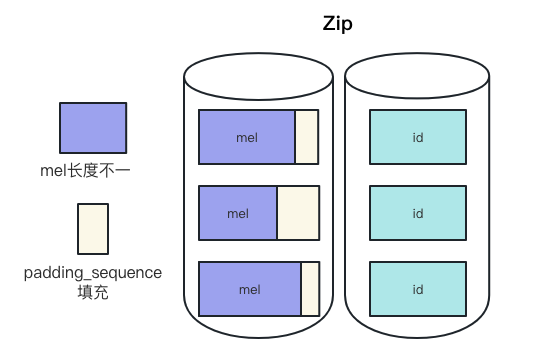
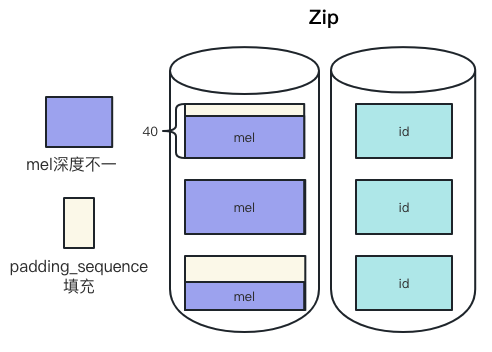
docs: self-attention source

diff --git a/_posts/编程篇/模型/2023-06-01-self-attention模型源码实现.md b/_posts/编程篇/模型/2023-06-01-self-attention模型源码实现.md
@@ -1,0 +1,204 @@
+---
+layout: post
+title: "self-attention模型源码实现"
+date: 2023-06-01
+author: Cola Liu
+categories: [编程篇,模型]
+---
+
+
+在`self-attention`模型源码中，直接调用Pytorch封装好的`TransformerEncoderLayer`函数是很简单的。不过模型里面还有诸如`Linear`、`permute`、`transpose`、`mean`、`sigmoid`、`argmax`等操作，我们也需要知道它们到底发挥了什么作用。
+
+> 本文主要介绍`self-attention`模型源码中，输入的tensor发生的变化，以及介绍`Linear`、`permute`、`transpose`、`mean`、`sigmoid`、`argmax`等处理tensor变换的操作。
+
+## model
+话不多说直接上源码 ⬇
+
+```python
+import torch
+import torch.nn as nn
+import torch.nn.functional as F
+
+
+class Classifier(nn.Module):
+ def __init__(self, d_model=80, n_spks=600, dropout=0.1):
+  super().__init__()
+  # Project the dimension of features from that of input into d_model.
+  self.prenet = nn.Linear(40, d_model)
+  # TODO:
+  #   Change Transformer to Conformer.
+  #   https://arxiv.org/abs/2005.08100
+  self.encoder_layer = nn.TransformerEncoderLayer(
+   d_model=d_model, dim_feedforward=256, nhead=2
+  )
+  # self.encoder = nn.TransformerEncoder(self.encoder_layer, num_layers=2)
+
+  # Project the the dimension of features from d_model into speaker nums.
+  self.pred_layer = nn.Sequential(
+   nn.Linear(d_model, d_model),
+   nn.Sigmoid(),
+   nn.Linear(d_model, n_spks),
+  )
+
+ def forward(self, mels):
+  """
+  args:
+   mels: (batch size, length, 40)
+  return:
+   out: (batch size, n_spks)
+  """
+  # out: (batch size, length, d_model)
+  out = self.prenet(mels)
+  # out: (length, batch size, d_model)
+  out = out.permute(1, 0, 2)
+  # The encoder layer expect features in the shape of (length, batch size, d_model).
+  out = self.encoder_layer(out)
+  # out: (batch size, length, d_model)
+  out = out.transpose(0, 1)
+  # mean pooling
+  stats = out.mean(dim=1)
+
+  # out: (batch, n_spks)
+  out = self.pred_layer(stats)
+  return out
+```
+源码看似很简单，但是每一步`tensor`发生了什么变化，我们很难看出来。在这里我们用一张图来展示上面的`model`。
+（点击看大图 ⬇）
+
+<img src="/assets/imgs/ai/self-attention/model.png" />
+
+## 输入矩阵
+
+首先，经过我们前面对于数据的预处理。假设我们输入的`batch_size=32`，即每个batch中有32条数据。每条数据格式为`[128,40]`，则我们的输入矩阵`shape`为：`torch.Size([32,128,40])`。
+
+<img src="/assets/imgs/ai/self-attention/input.png" />
+
+
+## prenet
+在本模型中，第一步操作是`prenet`，`prenet`中是一个全联接操作`(nn.Linear)`。输入维度为40，输出维度为80。
+```python
+# 定义
+self.prenet = nn.Linear(40, d_model) # 已知 de_model=80
+# forward
+out = self.prenet(mels)
+```
+
+<img src="/assets/imgs/ai/self-attention/prenet.png" />
+
+由上图可以看出，经过`prenet`操作后，tensor由 `torch.Size([32,128,40])` 转换成 `torch.Size([32,128,80])`。
+
+## permute
+接着是`permute`函数操作。`permute`函数在本blog另一篇文章里面有详细介绍，这里不再赘述。
+```python
+# forward
+ out = out.permute(1, 0, 2) # 把维度0和维度1掉换
+```
+<img src="/assets/imgs/ai/self-attention/permute.png" />
+
+`permute(1, 0, 2)`的作用是把维度0和维度1掉换，那么这里维度0是`batch_size`=32，维度1是` length`=128。
+
+tensor形状由 `torch.Size([32,128,80])` 转换成 `torch.Size([128,32,80])`。
+
+## encoder_layer
+接下来是`encoder_layer`，也就是self-attention的核心代码。
+```python
+# 定义
+self.encoder_layer = nn.TransformerEncoderLayer(
+   d_model=d_model, dim_feedforward=256, nhead=2
+  ) # d_model=80
+
+# forward
+# out: (batch size, length, d_model)
+out = self.prenet(mels)
+# out: (length, batch size, d_model)
+out = out.permute(1, 0, 2)
+# The encoder layer expect features in the shape of (length, batch size, d_model).
+out = self.encoder_layer(out)
+# out: (batch size, length, d_model)
+```
+<img src="/assets/imgs/ai/self-attention/encoder_layer.png" />
+
+在这个环节中，tensor的形状没有发生变化。
+
+## transpose
+接下来是`tranpose`函数操作。同样，`transpose`函数在本blog另一篇文章里面有详细介绍，这里不再赘述。
+
+```python
+# out: (batch size, length, d_model)
+out = out.transpose(0, 1)
+```
+
+<img src="/assets/imgs/ai/self-attention/transpose.png" />
+
+
+从上图可以看出来，`tranpose(0, 1)`把维度0和维度1掉换。tensor形状由 `torch.Size([128,32,80])` 转换成 `torch.Size([32,128,80])`。恢复到`permute`之前的shape。
+
+## mean
+`mean`函数是对某个维度求均值，这里`dim=1`。
+
+```python
+# mean pooling
+stats = out.mean(dim=1)
+```
+
+<img src="/assets/imgs/ai/self-attention/mean.png" />
+
+对维度1求均值，tensor形状由 `torch.Size([32,128,80])` 转换成 `torch.Size([32,80])`。
+
+
+## pred_layer
+
+`pred_layer`为结果预测层。里面包含三个操作：Linear、sigmoid、Linear。
+
+通过第一个全联接层后，tensor的形状没有发生变化。
+<img src="/assets/imgs/ai/self-attention/pred_layer_1.png" />
+
+仔细看看最后一个全联接层。由于我们有600个分类（n_spks），即类别1，类别2，类别3，...，类别600。因此，输出的结果应该是`[batch_size,600]`，600里面对应是该条数据是类别1，类别2，类别3....类别600的概率。
+<img src="/assets/imgs/ai/self-attention/pred_layer_2.png" />
+
+这个理解起来有点抽象，我们画个表帮助理解一下，也就是如下表（32 * 600） 所示 ⬇
+
+对于batch中每一条数据，这条数据属于类别1-600的概率分别展示出来，就是到目前为止，这个模型的输出结果。
+
+| |类别1 | 类别2|类别3 |类别... | 类别600|
+|--|--|--|--|--|--|
+|数据1|0.1|0.3|1|--|0.4|
+|数据2|1|0.2|0.1|--|0.8|
+|数据3|0.7|0.8|0.2|--|0.1|
+|...|--|--|--|--|--|
+|数据32|0.5|0.2|0.8|--|0.9|
+
+
+## argmax
+`argmax`就更好理解了，求出当概率最大时的自变量（也就是类别）
+<img src="/assets/imgs/ai/self-attention/argmax.png" />
+还是用表格来表示一下比较好理解 ⬇
+
+我们在上面的表格中，对所有类别的概率进行比较，找到概率最大的值所属类别，则认为该数据属于该类别。
+
+| | | 
+|--|--|
+|数据1|类别3(数据1为类别3时概率为1最高，取类别3)|
+|数据2|类别1(数据2为类别1时概率为1最高，取类别1)|
+|数据3|类别2(数据3为类别2时概率为0.8最高，取类别2)|
+|...|--|
+|数据32|类别600|数据32为类别600时概率为0.9最高，取类别600|
+
+### argmax与max的区别
+那`argmax`和`max`是什么区别呢，当函数f(x)最大时，`argmax`取x自变量的取值（也就argument的意思）`max`则是取f(x)最大值。
+
+同样也是这个例子，我们来比较一下`argmax`和`max`
+
+| |argmax | max |
+|--|--|--|
+|数据1|类别3|1|
+|数据2|类别1|1|
+|数据3|类别2|0.8
+|...|--|
+|数据32|类别600|0.9|
+
+从定义上来说，`argmax`取值可以有多个，`max`取值一般只有1个。
+
+
+## 小结
+在 `self-attention`源码中，除了关键的encoder操作，还有很多细节需要考虑。我们需要清楚其中每一步tensor的变化。

diff --git a/_posts/编程篇/数据预处理/2023-05-22-音频数据预处理(上).md b/_posts/编程篇/数据预处理/2023-05-22-音频数据预处理(上).md
@@ -52,15 +52,15 @@ supervised learning 的特点是，每一个 data 都打上了 label，也就是
 
 ## 举个栗子 🌰
 
-下面是一份音频源文件 ⬇
+下面是一份音频pt文件 ⬇
 
 <img src="/assets/imgs/ai/数据预处理/音频/dataset.png" />
 
 - uttr-0a0ac1a3b4784aba9f76c1c7e6e920b5.pt
 - uttr-0a18eb1376e141be814dc1bea80a39c0.pt
 - ...
-就是音频的源文件，我们需要把它们读取出来（源文件有几个G的.pt文件），这就是 `data`。
-`label`有时候是在音频源文件命名的时候顺便做好标记，在这里就不一样，`label`与音频源文件`data`之间的关系记录在`mapping.json\metadata.json`里面。即用一个`json`文件去维护`data`与`label`之间的映射关系。
+就是音频的pt文件（经过Pytorch预处理的文件），我们需要把它们读取出来（有几个G的.pt文件），这就是 `data`。
+`label`有时候是在音频pt文件命名的时候顺便做好标记，在这里就不一样，`label`与音频pt文件`data`之间的关系记录在`mapping.json\metadata.json`里面。即用一个`json`文件去维护`data`与`label`之间的映射关系。
 
 接下来分别来看看这几个音频文件：
 
@@ -76,12 +76,12 @@ supervised learning 的特点是，每一个 data 都打上了 label，也就是
 
 <img src="/assets/imgs/ai/数据预处理/音频/metadata.png" style="display:block;" />
 
-`metadata.json` 维护的是`speaker`与`feature_path`的映射关系,也就是音频源文件的地址的映射关系。读取 `feature_path` 中的数据就可以得到 `data`。
+`metadata.json` 维护的是`speaker`与`feature_path`的映射关系,也就是音频pt文件的地址的映射关系。读取 `feature_path` 中的数据就可以得到 `data`。
 
 <img src="/assets/imgs/ai/数据预处理/音频/speaker2path.png" style="display:block;" />
 
-### 3、读取音频源文件并裁减
-我们知道，通常一份音频有长有短，这时候我们需要对音频`mel`进行剪辑，让它们之间的len保持一致。在这里每段音频截取128的长度。
+### 3、读取音频pt文件并裁减
+我们知道，通常一份音频有长有短，这时候我们需要对音频`mel`进行剪辑，让它们之间的len保持一致。在这里每段音频截取128的length。
 
 <img src="/assets/imgs/ai/数据预处理/音频/melcut.png" />
 

diff --git a/_posts/编程篇/数据预处理/2023-05-22-音频数据预处理(下).md b/_posts/编程篇/数据预处理/2023-05-22-音频数据预处理(下).md
@@ -41,7 +41,7 @@ mel, speaker = zip(*batch)
 ```
 
 - `mel` 填充
-也许你会问，我们上一节不是都处理成长度128了吗？实际上，是长度大于128的保留128的长度，长度小于128的返回原来的音频。所以在这里需要进一步处理。用 `pytorch` 中的 `padding_squence`。
+也许你会问，我们上一节不是都处理成长度128了吗？那这里又是填充什么呢。这里填充的是mel的深度，让每一条数据的大小都为[128, 40]。这里用到的是`pytorch` 中的 `padding_squence`方法。
 
 <img src="/assets/imgs/ai/数据预处理/音频/batch_process.png" />
 
